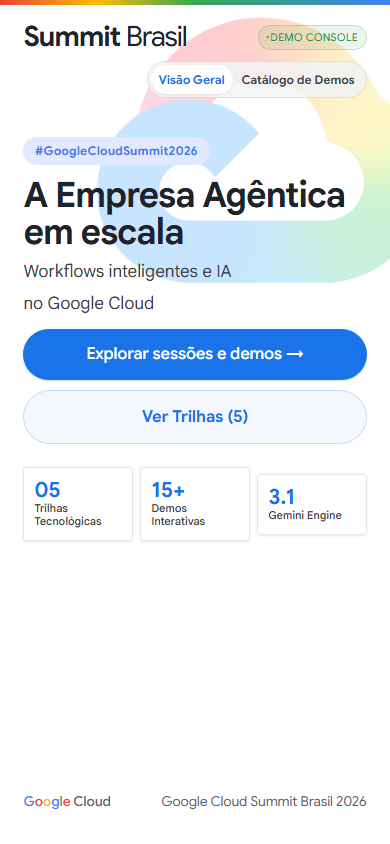
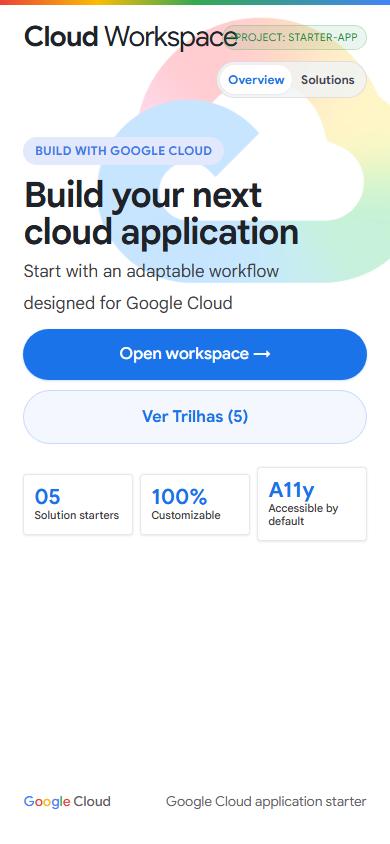
feat: turn the template into an app workspace

diff --git a/content.js b/content.js
@@ -24,26 +24,27 @@ window.CONTENT = {
 
   brand: {
     /* The wordmark split in two: bold prefix, light suffix (~10 chars total). */
-    wordmarkBold: 'Summit ',
-    wordmarkLight: 'Brasil',
+    wordmarkBold: 'Cloud ',
+    wordmarkLight: 'Workspace',
 
     /* Cover lede. First two lines render bold, last two regular.
        Break the lines yourself — this is a poster, not a paragraph. */
-    ledeStrong: ['A Empresa Agêntica', 'em escala'],
-    ledeSoft:   ['Workflows inteligentes e IA', 'no Google Cloud'],
+    ledeStrong: ['Build your next', 'cloud application'],
+    ledeSoft:   ['Start with an adaptable workflow', 'designed for Google Cloud'],
 
-    cta: 'Explorar sessões e demos',
-    edition: 'Google Cloud Summit Brasil 2026',
+    cta: 'Open workspace',
+    edition: 'Google Cloud application starter',
 
     /* Prefix for the miniature wordmark in each card header. */
-    cardBold: 'Summit ',
-    cardLight: 'Brasil',
+    cardBold: 'Cloud ',
+    cardLight: 'Workspace',
   },
 
   categories: [
     {
       icon: 'gc-icon-identity',
-      title: 'Agentes de IA e Empresa Agêntica',
+      title: 'Image editing',
+      description: 'Create, transform, compare, and approve visual assets.',
       facts: [
         {
           title: 'IA Generativa evolui de protótipos para agentes autônomos em produção',
@@ -74,7 +75,8 @@ window.CONTENT = {
 
     {
       icon: 'gc-icon-catalog',
-      title: 'Infraestrutura Moderna e AI Hypercomputer',
+      title: 'Video editing',
+      description: 'Review footage, edit timelines, and prepare delivery.',
       facts: [
         {
           title: 'Orquestração de workloads de IA com GKE Autopilot e TPUs Ironwood',
@@ -105,7 +107,8 @@ window.CONTENT = {
 
     {
       icon: 'gc-icon-support',
-      title: 'Dados Unificados e Inteligência em Tempo Real',
+      title: 'Data analytics',
+      description: 'Query, visualize, and explain decisions with evidence.',
       facts: [
         {
           title: 'Lakehouse unificado no BigQuery Studio com formatos abertos de tabela',
@@ -136,7 +139,8 @@ window.CONTENT = {
 
     {
       icon: 'gc-icon-mobile-check',
-      title: 'Segurança com IA e BeyondCorp Zero Trust',
+      title: 'Databases',
+      description: 'Explore schemas, query safely, and inspect system health.',
       facts: [
         {
           title: 'Arquitetura Zero Trust e acesso contextual com BeyondCorp Enterprise',
@@ -159,7 +163,8 @@ window.CONTENT = {
 
     {
       icon: 'gc-icon-open',
-      title: 'Inovação Local e Ecossistema Brasil',
+      title: 'Business flows',
+      description: 'Automate requests, approvals, exceptions, and handoffs.',
       facts: [
         {
           title: 'Cloud Space São Paulo e co-criação de soluções de nuvem na América Latina',

diff --git a/css/screens.css b/css/screens.css
@@ -175,6 +175,59 @@
   box-shadow: var(--gc-shadow-action);
 }
 
+/* App-first solution launcher. Text carries the information hierarchy; the
+   list uses Console-like dividers instead of nested cards and category icons. */
+.gc-workspace-list {
+  gap: 0;
+  width: 48cqw;
+  border-top: 0.1cqw solid var(--gc-color-border);
+}
+
+.gc-workspace-list .gc-menu-item {
+  height: 5.35cqw;
+  padding: 0 0.4cqw;
+  border: 0;
+  border-bottom: 0.1cqw solid var(--gc-color-border);
+  border-radius: 0;
+  background: transparent;
+  box-shadow: none;
+}
+
+.gc-workspace-list .gc-menu-item:hover,
+.gc-workspace-list .gc-menu-item:focus-visible {
+  padding-inline: 1.1cqw;
+  border-color: var(--gc-color-border);
+  background: var(--gc-color-selection);
+  box-shadow: none;
+  transform: none;
+}
+
+.gc-menu-copy {
+  display: grid;
+  flex: 1;
+  gap: 0.35cqw;
+}
+
+.gc-workspace-list .gc-menu-label {
+  margin: 0;
+  font-family: var(--gc-font-display);
+  font-size: 1.25cqw;
+  font-weight: 500;
+}
+
+.gc-solution-description {
+  font-family: var(--gc-font-text);
+  font-size: 0.86cqw;
+  color: var(--gc-ink-500);
+}
+
+.gc-solution-arrow {
+  color: var(--gc-blue-action);
+  font-family: var(--gc-font-display);
+  font-size: 1.6cqw;
+}
+
+
 /* -----------------------------------------------------------------------------
    6. BUTTONS
    -------------------------------------------------------------------------- */
@@ -519,6 +572,17 @@
   font-weight: 400;
   line-height: 1.7;
   color: var(--gc-ink-500);
+}
+
+@media (min-width: 768px) {
+  .gc-hero-card,
+  .gc-metrics-bar,
+  .gc-menu-header,
+  .gc-menu,
+  .gc-detail { left: 17cqw; }
+  .gc-hero-card,
+  .gc-metrics-bar { width: 38cqw; }
+  .gc-menu-header { width: 48cqw; }
 }
 
 /* -----------------------------------------------------------------------------

diff --git a/js/screens/catalog.js b/js/screens/catalog.js
@@ -1,16 +1,17 @@
-export function renderCatalog({ config, content, esc, pad }) {
+export function renderCatalog({ config, content, esc }) {
   return `
     <div class="gc-menu-header" style="view-transition-name: gc-lede">
       <h2 class="gc-menu-title">${esc(config.catalogTitle)}</h2>
       <p class="gc-menu-subtitle">${esc(config.catalogSubtitle)}</p>
     </div>
-    <nav class="gc-menu gc-console-surface" style="view-transition-name: gc-menu">
+    <nav class="gc-menu gc-workspace-list" aria-label="Solution starters" style="view-transition-name: gc-menu">
       ${content.categories.map((category, index) => `
         <button class="gc-menu-item" data-go="cards" data-cat="${index}">
-          <span class="gc-icon-tile"><svg><use href="#${esc(category.icon)}"/></svg></span>
-          <span class="gc-menu-label">${esc(category.title)}</span>
-          <span class="gc-menu-badge">${category.facts.length} Demos</span>
-          <span class="gc-menu-num">${pad(index)}</span>
+          <span class="gc-menu-copy">
+            <span class="gc-menu-label">${esc(category.title)}</span>
+            <span class="gc-solution-description">${esc(category.description || 'Customize this starter for your application.')}</span>
+          </span>
+          <span class="gc-solution-arrow" aria-hidden="true">&rarr;</span>
         </button>`).join('')}
     </nav>`;
 }

diff --git a/css/responsive.css b/css/responsive.css
@@ -23,6 +23,9 @@
    ========================================================================== */
 @media (max-width: 767px) {
 
+  .gc-app-sidebar { display: none; }
+  .gc-app-nav { display: flex; }
+
   .gc-progress-bar {
     height: 1.2vw;
   }
@@ -229,6 +232,18 @@
     margin-top: auto;
     padding-top: 12cqw;
   }
+  .gc-workspace-list .gc-menu-item {
+    height: auto;
+    min-height: 19cqw;
+    padding: 4cqw 1cqw;
+  }
+  .gc-workspace-list .gc-menu-item:hover,
+  .gc-workspace-list .gc-menu-item:focus-visible {
+    padding-inline: 3cqw;
+  }
+  .gc-workspace-list .gc-menu-label { font-size: 4.8cqw; }
+  .gc-solution-description { font-size: 3.35cqw; line-height: 1.35; }
+  .gc-solution-arrow { font-size: 6cqw; }
   .gc-footer-logo,
   .gc-edition {
     font-size: 3.5cqw;
@@ -239,5 +254,5 @@
 /* On desktop the footer wrapper must not create a box — its two children are
    positioned absolutely against the stage. `display: contents` removes it. */
 @media (min-width: 768px) {
-  .gc-footer { display: contents; }
+  .gc-footer { display: none; }
 }

diff --git a/js/config.js b/js/config.js
@@ -1,17 +1,17 @@
 export const APP_CONFIG = Object.freeze({
   preset: 'hybrid',
   defaultView: 'cover',
-  status: 'DEMO CONSOLE',
+  status: 'PROJECT: STARTER-APP',
   navigation: {
-    cover: 'Visão Geral',
-    menu: 'Catálogo de Demos',
+    cover: 'Overview',
+    menu: 'Solutions',
   },
-  heroTag: '#GoogleCloudSummit2026',
-  catalogTitle: 'Catálogo de Demos & Trilhas Tecnológicas',
-  catalogSubtitle: 'Selecione uma trilha para interagir com as demonstrações e arquiteturas ao vivo.',
+  heroTag: 'BUILD WITH GOOGLE CLOUD',
+  catalogTitle: 'Choose what you want to build',
+  catalogSubtitle: 'Start with a workflow, connect your data, and customize the experience for your use case.',
   metrics: [
-    { value: '05', label: 'Trilhas Tecnológicas' },
-    { value: '15+', label: 'Demos Interativas' },
-    { value: '3.1', label: 'Gemini Engine' },
+    { value: '05', label: 'Solution starters' },
+    { value: '100%', label: 'Customizable' },
+    { value: 'A11y', label: 'Accessible by default' },
   ],
 });

diff --git a/css/shell.css b/css/shell.css
@@ -173,6 +173,47 @@
   pointer-events: auto;
 }
 
+.gc-app-sidebar {
+  position: absolute;
+  left: 2.4cqw;
+  top: 7.5cqw;
+  bottom: 2.5cqw;
+  width: 12cqw;
+  padding-right: 1.4cqw;
+  border-right: 0.1cqw solid var(--gc-color-border);
+}
+
+.gc-sidebar-label {
+  display: block;
+  padding: 0.7cqw 0.9cqw;
+  color: var(--gc-ink-500);
+  font-family: var(--gc-font-display);
+  font-size: 0.72cqw;
+  font-weight: 500;
+  letter-spacing: 0.06em;
+  text-transform: uppercase;
+}
+
+.gc-sidebar-link {
+  display: block;
+  width: 100%;
+  padding: 0.7cqw 0.9cqw;
+  border-radius: 0.55cqw;
+  text-align: left;
+  color: var(--gc-ink-600);
+  font-family: var(--gc-font-display);
+  font-size: 0.9cqw;
+}
+
+.gc-sidebar-link:hover,
+.gc-sidebar-link.active {
+  background: var(--gc-color-selection);
+  color: var(--gc-blue-action);
+}
+
+.gc-app-nav { display: none; }
+.gc-footer { display: none; }
+
 .gc-nav-link {
   padding: 0.3cqw 0.9cqw;
   border-radius: var(--gc-radius-pill);

diff --git a/js/app.js b/js/app.js
@@ -26,7 +26,7 @@ export function startApp({ content, demoHtml }) {
   });
 
   function setActiveNavigation(view) {
-    document.querySelectorAll('.gc-nav-link').forEach(button => {
+    document.querySelectorAll('.gc-nav-link, .gc-sidebar-link').forEach(button => {
       const active = button.dataset.go === view ||
         (button.dataset.go === 'menu' && ['cards', 'article'].includes(view));
       button.classList.toggle('active', active);
@@ -45,7 +45,7 @@ export function startApp({ content, demoHtml }) {
       article: renderDetail,
     }[state.view] || renderCover;
     screen.innerHTML = renderer(context);
-    veil.hidden = state.view === 'cover' || state.view === 'menu';
+    veil.hidden = state.view === 'cover';
     setActiveNavigation(state.view);
     gcInitRails(screen);
     gcInitDemos(screen);

diff --git a/index.html b/index.html
@@ -63,6 +63,12 @@
       </div>
     </div>
 
+    <aside class="gc-app-sidebar" aria-label="Workspace navigation">
+      <span class="gc-sidebar-label">Workspace</span>
+      <button class="gc-sidebar-link active" data-go="cover">Overview</button>
+      <button class="gc-sidebar-link" data-go="menu">Solutions</button>
+    </aside>
+
     <!-- Screens render into here. -->
     <div id="screen"></div>
 

diff --git a/js/cloud-style.js b/js/cloud-style.js
@@ -29,7 +29,9 @@ function gcNavigate(update) {
     update();
     return Promise.resolve();
   }
-  return document.startViewTransition(update).finished.catch(function () {});
+  var transition = document.startViewTransition(update);
+  transition.ready.catch(function () {});
+  return transition.finished.catch(function () {});
 }
 
 /**

diff --git a/tests/test_repository_contracts.py b/tests/test_repository_contracts.py
@@ -70,9 +70,30 @@ class RepositoryContractsTest(unittest.TestCase):
         cards = (ROOT / "js/screens/cards.js").read_text(encoding="utf-8")
         detail = (ROOT / "js/screens/detail.js").read_text(encoding="utf-8")
         self.assertEqual(cover.count("gc-primary-action"), 1)
-        self.assertIn("gc-console-surface", catalog)
+        self.assertIn("gc-workspace-list", catalog)
         self.assertIn("gc-console-surface", cards)
         self.assertIn("gc-console-surface", detail)
+
+    def test_workspace_uses_neutral_template_language(self):
+        config = (ROOT / "js/config.js").read_text(encoding="utf-8").lower()
+        catalog = (ROOT / "js/screens/catalog.js").read_text(encoding="utf-8")
+        for rejected in ("catálogo", "catalogo", "demo console", "demos interativas"):
+            self.assertNotIn(rejected, config)
+        for rejected_markup in ("gc-icon-tile", "gc-menu-badge", "gc-menu-num"):
+            self.assertNotIn(rejected_markup, catalog)
+        self.assertIn("gc-solution-description", catalog)
+
+    def test_workspace_has_application_shell(self):
+        html = (ROOT / "index.html").read_text(encoding="utf-8")
+        shell = (ROOT / "css/shell.css").read_text(encoding="utf-8")
+        self.assertIn('class="gc-app-sidebar"', html)
+        self.assertIn(".gc-app-sidebar", shell)
+        self.assertIn(".gc-footer { display: none; }", shell)
+
+    def test_navigation_handles_skipped_view_transitions(self):
+        source = (ROOT / "js/cloud-style.js").read_text(encoding="utf-8")
+        self.assertIn("transition.ready.catch", source)
+        self.assertIn("transition.finished.catch", source)
 
     def test_screenshot_manifest_has_required_viewports(self):
         from tools.screenshot_manifest import SCREENSHOT_CASES

diff --git a/tools/verify.py b/tools/verify.py
@@ -83,12 +83,12 @@ def main() -> int:
 
         page.locator(".gc-hero-actions .gc-btn").click()
         page.wait_for_timeout(800)
-        if page.locator('.gc-nav-link[aria-current="page"]').text_content() != "Catálogo de Demos":
+        if page.locator('.gc-nav-link[aria-current="page"]').text_content() != "Solutions":
             problems.append("[desktop] catalog navigation does not expose aria-current")
         page.screenshot(path=str(out / "template-menu.png"))
         print("  template-menu.png")
-        if page.locator(".gc-console-surface").count() == 0:
-            problems.append("[desktop] catalog is missing its Console surface")
+        if page.locator(".gc-workspace-list").count() != 1:
+            problems.append("[desktop] Solutions must expose one workspace list")
 
         page.locator(".gc-menu-item").first.click()
         page.wait_for_timeout(800)
